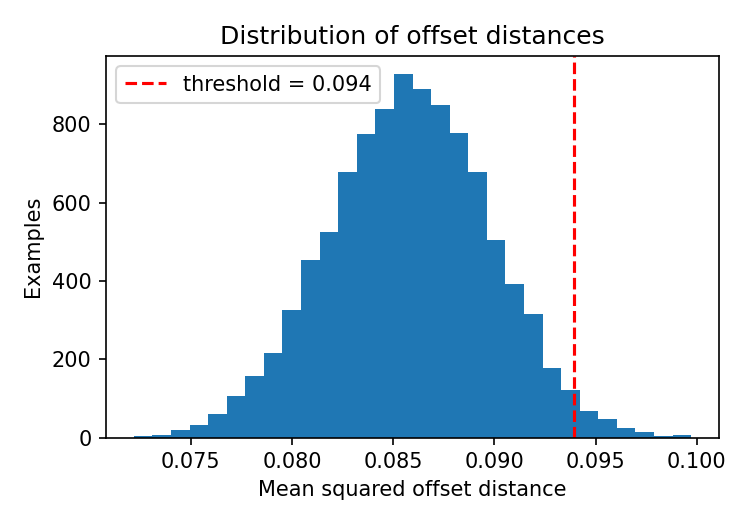
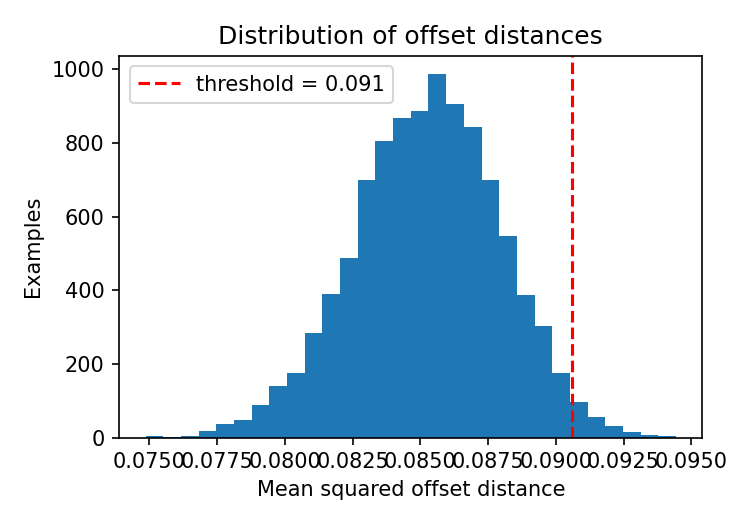
CXhanges in data preparation file

diff --git a/prepare_data.py b/prepare_data.py
@@ -9,7 +9,7 @@ from cloth_pipeline import make_dataset, clean
 os.makedirs("data", exist_ok=True)
 os.makedirs("figures", exist_ok=True)
 
-X, Y = make_dataset(n=10000, joints=14, verts=400)
+X, Y = make_dataset(n=10000, joints=14, verts=2170)
 print(f"Raw dataset: X {X.shape}, Y {Y.shape}")
 
 # Mean squared L2 distance of offsets per example (as in the paper)
